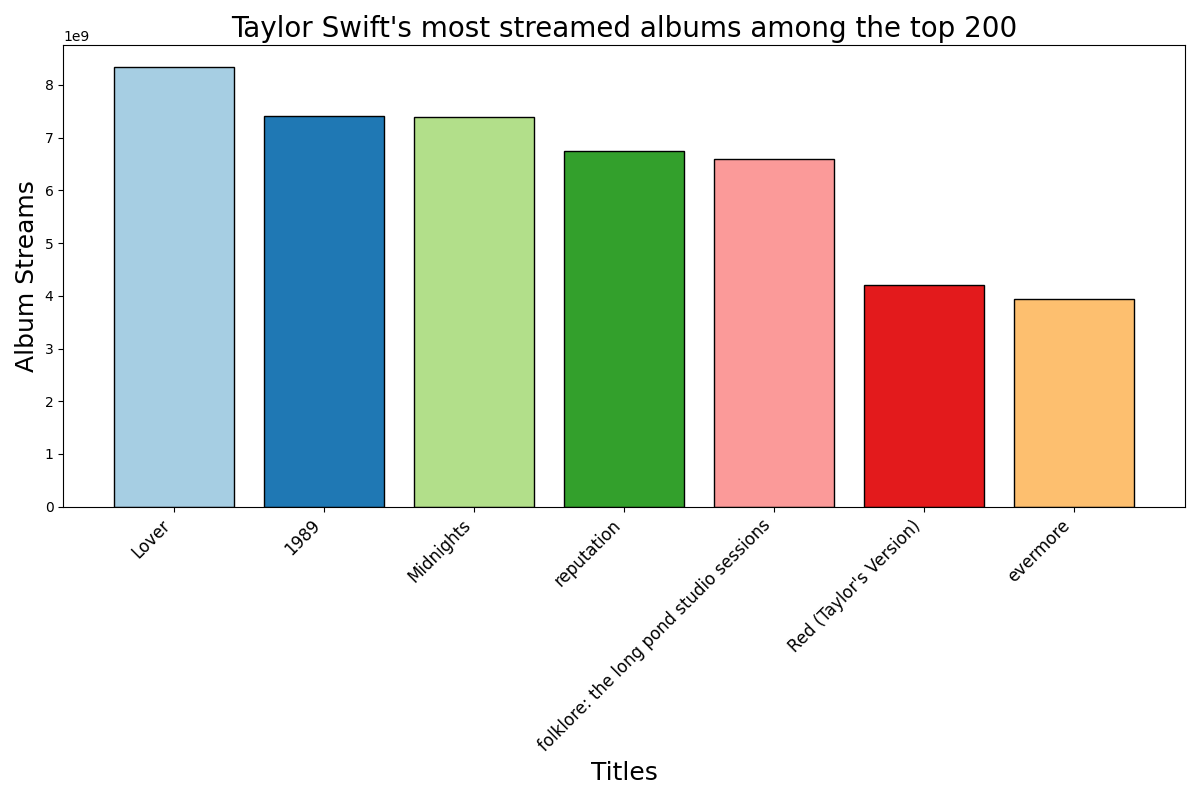
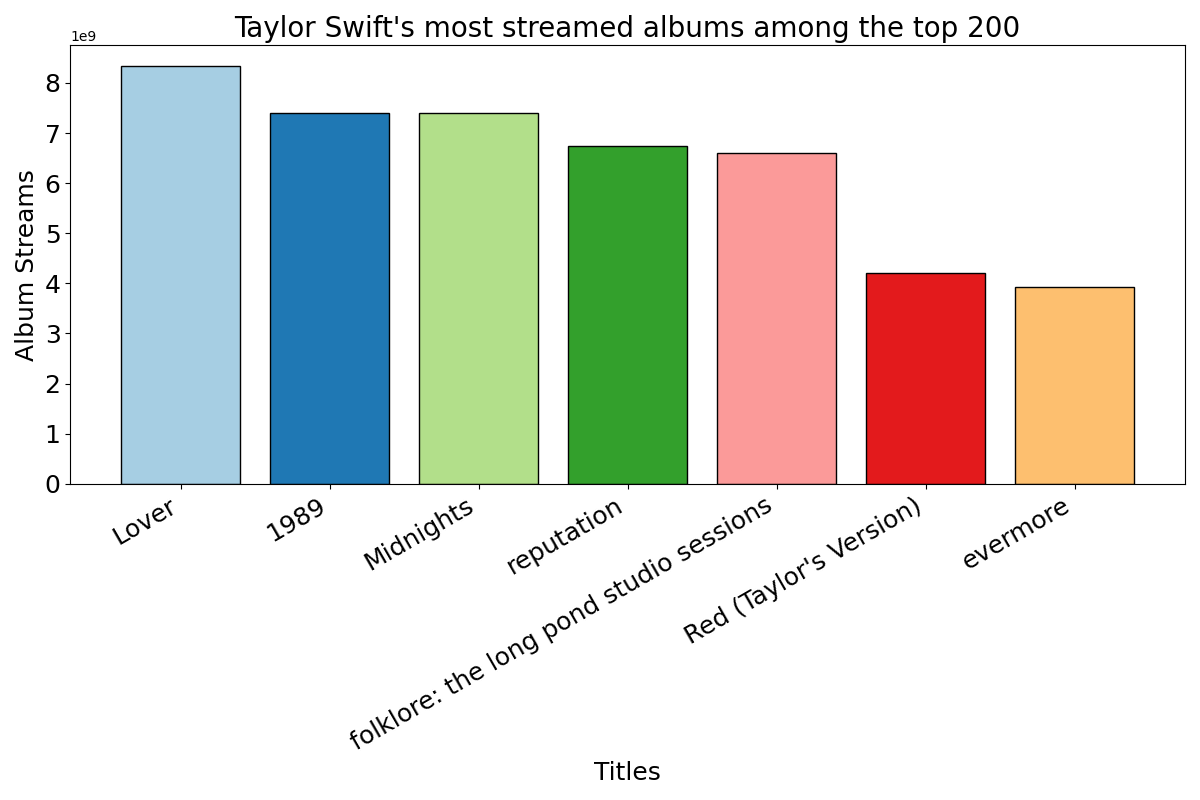
webpage cleaned up, cleaning up repo now

diff --git a/webpage/templates/artists_visualizations.html b/webpage/templates/artists_visualizations.html
@@ -11,18 +11,25 @@
         }
 
         h1 {
-            color: #1db954;
-        }
-        h2 {
-            color: #1db954;
+            color: darkmagenta;
+            font-size: 50px;
         }
 
         img {
             margin: 10px auto;
             display: block;
-            width : 60%;
-            height: 60%;
+            width : 70%;
+            height: 70%;
         }
+
+        h2
+        {
+            color: black;
+            -webkit-text-stroke-color: white;
+            padding: 10px;
+            font-size: 30px;
+        }
+
     </style>
 </head>
 <body>

diff --git a/webpage/app.py b/webpage/app.py
@@ -16,6 +16,27 @@ def query_the_database(conn, query):
         print(e)
 
 # ---------ARTIST VISUALIZATIONS---------
+def plot_artist_songs_chart(artist):
+
+    # query the database
+    conn = sqlite3.connect("music.db")
+    query = "SELECT title, total_streams FROM most_streams WHERE artist=" + "'" + artist + "'"
+    data = query_the_database(conn, query)
+    conn.close()
+    if data is None:
+        print(f"No data found for the artist: {artist}")
+        return
+    titles, daily_streams = zip(*data)
+
+    # query the database
+    plt.subplots(figsize=(25, 25))
+    plt.pie(daily_streams, autopct='%1.1f%%', startangle=140, colors=plt.cm.Paired.colors, textprops={'fontsize': 21})
+    plt.legend(titles, title='Track Legend', bbox_to_anchor=(1, 0.5), loc="center left", fontsize='large', title_fontsize='large')
+
+    plt.axis('equal')
+    plt.tight_layout()
+    plt.savefig('./static/visualizations/artist_songs.png')
+
 def plot_artist_album_chart(artist):
     # Query the albums_streams table
     conn = sqlite3.connect("music.db")
@@ -33,33 +54,12 @@ def plot_artist_album_chart(artist):
     plt.xlabel('Titles', fontsize=18)
     plt.ylabel('Album Streams', fontsize=18)
     title = f"{artist}'s most streamed albums among the top 200"
-    plt.title(title, fontsize=20)
-    
-    # Rotate x-axis labels for better readability
-    plt.xticks(rotation=45, ha='right', fontsize=12)  # Adjust the rotation angle as needed
+    plt.title(title, fontsize=20)    
+    plt.xticks(rotation=30, ha='right', fontsize=18)
+    plt.yticks(fontsize=18)
     plt.tight_layout()
     plt.savefig('./static/visualizations/artist_albums.png')
 
-def plot_artist_songs_chart(artist):
-
-    # query the database
-    conn = sqlite3.connect("music.db")
-    query = "SELECT title, total_streams FROM most_streams WHERE artist=" + "'" + artist + "'"
-    data = query_the_database(conn, query)
-    conn.close()
-    if data is None:
-        print(f"No data found for the artist: {artist}")
-        return
-    titles, daily_streams = zip(*data)
-
-    # query the database
-    plt.subplots(figsize=(25, 25))
-    plt.pie(daily_streams, autopct='%1.1f%%', startangle=140, colors=plt.cm.Paired.colors, textprops={'fontsize': 18})
-    plt.legend(titles, title='Track Legend', bbox_to_anchor=(1, 0.5), loc="center", fontsize='large', title_fontsize='xx-large')
-
-    plt.axis('equal')
-    plt.tight_layout()
-    plt.savefig('./static/visualizations/artist_songs.png')
 
 def build_artist_top_songs_by_daily_streams(artist):
     conn = sqlite3.connect("music.db")
@@ -71,7 +71,7 @@ def build_artist_top_songs_by_daily_streams(artist):
         return
     titles, daily_streams = zip(*data)
 
-    plt.subplots(figsize=(10, 8))
+    plt.subplots(figsize=(15, 10))
     plt.pie(daily_streams, autopct='%1.1f%%', startangle=140, colors=plt.cm.Paired.colors, textprops={'fontsize': 18})
     plt.legend(titles, title='Track Legend', bbox_to_anchor=(1, 0.5), loc="center", fontsize='small', title_fontsize='medium')
 
@@ -102,7 +102,11 @@ def main():
 @app.route('/artists', methods=['GET', 'POST'])
 def artist_page():
     if request.method == 'POST':
-        artist_name = request.form['artist_name']
+        artist_name = request.form['artist_name'].lower()   
+        names = artist_name.split(" ")
+        names = [name.capitalize() for name in names]
+        artist_name = " ".join(names)
+        print(artist_name)
         plot_artist_album_chart(artist_name)
         plot_artist_songs_chart(artist_name)
         build_artist_top_songs_by_daily_streams(artist_name)
@@ -111,32 +115,15 @@ def artist_page():
 
 @app.route('/visualizations/<artist_name>', methods=['GET'])
 def visualizations(artist_name):
-    # Perform data processing and visualization here based on the artist_name
-    # For example, you can call a function that generates a chart
-    # chart = artists_most_streamed_songs_bar_chart(artist_name)
-
-    # Pass the artist_name and chart to the template
     return render_template('artists_visualizations.html', artist_name=artist_name)
 
-@app.route('/songs', methods=['GET', 'POST'])
+@app.route('/songs', methods=['GET'])
 def song_page():
-    if request.method == 'POST':
-        song_name = request.form['song_name']
-        # Perform visualization based on song_name using execute_query function
-        # Example: result = execute_query("SELECT * FROM songs WHERE title=?", (song_name,))
-        # Add your visualization logic here
-        return render_template('songs', song_name=song_name)
     return render_template('songs.html')
 
-@app.route('/albums', methods=['GET', 'POST'])
+@app.route('/albums', methods=['GET'])
 def album_page():
-    if request.method == 'POST':
-        album_name = request.form['album_name']
-        # Perform visualization based on album_name using execute_query function
-        # Example: result = execute_query("SELECT * FROM albums WHERE title=?", (album_name,))
-        # Add your visualization logic here
-        return render_template('albums', album_name=album_name)
-    return render_template('albums.html')
+    return render_template('artists-comparisons.html')
 
 if __name__ == '__main__':
     app.run(debug=True)
